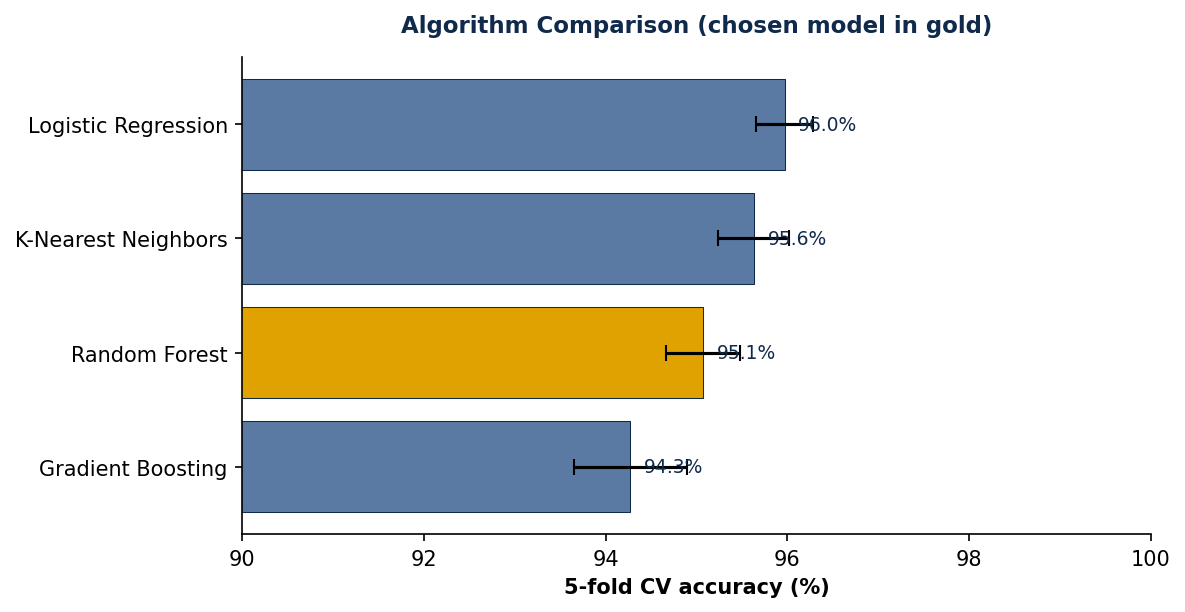
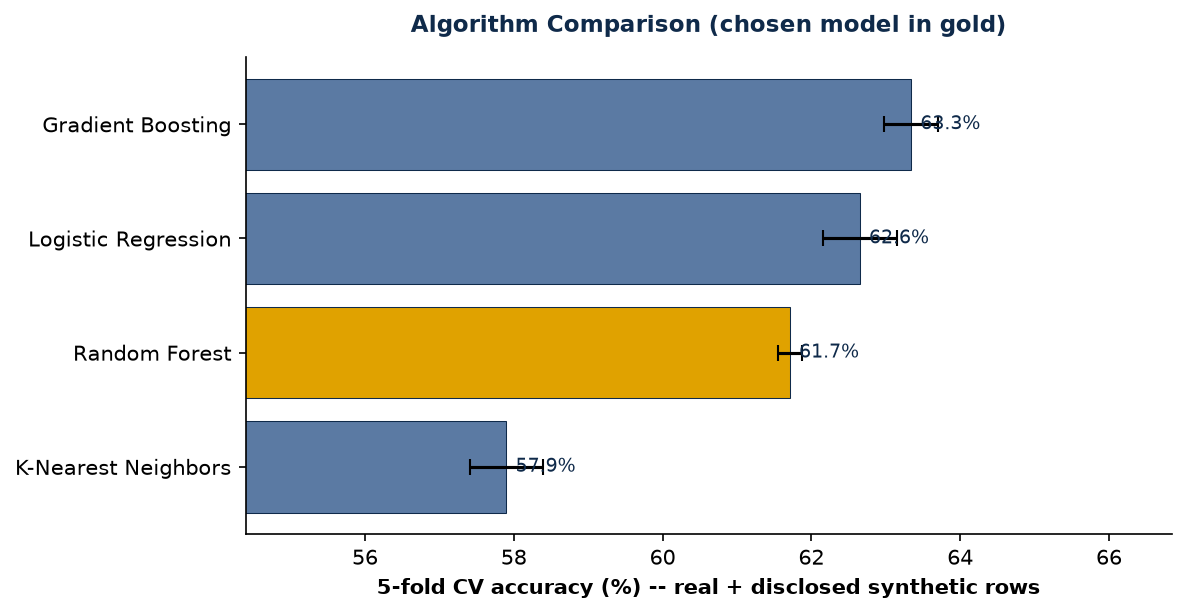
fix: persist real-only metrics so the honest number survives into the report
train.py printed a real-only (excludes disclosed synthetic O*NET rows)
accuracy/macro-F1 to the terminal, but never saved it -- model_meta.json
only stored the blended numbers, and gen_figures.py (the actual FYP figure
generator) had zero awareness of the real vs. synthetic split. Anyone
regenerating report figures the normal way would get charts with no
synthetic-data caveat at all.

* train.py now persists a `real_only` object (test accuracy, macro F1,
  log loss, sample count) into model_meta.json.
* gen_figures.py renders a new fig_full_vs_real_only.png bar chart from
  that field, and its output path is now portable (was hardcoded to a
  different machine's /home/claude/... path) and its algorithm-comparison
  x-axis is now sized to the actual data (was hardcoded to 90-100%, which
  would have clipped every bar off-chart at real accuracy levels).

Retrained on the unchanged v3.2 dataset -- identical results, now with the
real-only numbers (56.8% acc / 0.46 macro-F1) persisted alongside the full
ones (61.2% / 0.64). 17/17 tests still pass.

Changed region(s): [[0.0, 0.0931, 0.9992, 0.9935], [0.3435, 0.0, 0.843, 0.0621]]

diff --git a/ml-service/gen_figures.py b/ml-service/gen_figures.py
@@ -10,7 +10,8 @@ from sklearn.model_selection import train_test_split
 from sklearn.metrics import confusion_matrix
 from career_data import generate_dataset, FEATURE_ORDER, CAREER_LABELS
 
-OUT = "/home/claude/Merajfyp/docs-figures"
+HERE = os.path.dirname(os.path.abspath(__file__))
+OUT = os.path.normpath(os.path.join(HERE, "..", "docs-figures"))
 os.makedirs(OUT, exist_ok=True)
 
 NAVY = "#0f2a4a"
@@ -86,15 +87,48 @@ if comp:
     fig, ax = plt.subplots(figsize=(8.0, 4.2))
     bars = ax.barh(names, accs, xerr=errs, color=colors, edgecolor=NAVY,
                    linewidth=0.5, capsize=4)
-    ax.set_xlim(90, 100)
-    ax.set_xlabel("5-fold CV accuracy (%)", fontsize=10, fontweight="bold")
+    lo = max(0, min(accs) - max(errs) - 3)
+    hi = min(100, max(accs) + max(errs) + 3)
+    ax.set_xlim(lo, hi)
+    ax.set_xlabel("5-fold CV accuracy (%) -- real + disclosed synthetic rows",
+                  fontsize=10, fontweight="bold")
     ax.set_title("Algorithm Comparison (chosen model in gold)",
                  fontsize=11, fontweight="bold", color=NAVY, pad=12)
     for b, a in zip(bars, accs):
-        ax.text(a + 0.15, b.get_y() + b.get_height()/2, f"{a:.1f}%",
+        ax.text(a + (hi - lo) * 0.01, b.get_y() + b.get_height()/2, f"{a:.1f}%",
                 va="center", fontsize=9, color=NAVY)
     ax.spines[["top", "right"]].set_visible(False)
     plt.tight_layout()
     plt.savefig(f"{OUT}/fig_algorithm_comparison.png", dpi=150, bbox_inches="tight")
     plt.close()
     print("saved algorithm comparison chart")
+
+# ---- honest full-vs-real-only comparison (only if augment_profiles.py has run) ----
+real_only = meta.get("real_only")
+if real_only:
+    labels = ["Test accuracy", "Macro F1"]
+    full_vals = [meta["test_accuracy"] * 100, meta["macro_f1"] * 100]
+    real_vals = [real_only["test_accuracy"] * 100, real_only["macro_f1"] * 100]
+    x = np.arange(len(labels))
+    width = 0.32
+    fig, ax = plt.subplots(figsize=(6.4, 4.2))
+    b1 = ax.bar(x - width / 2, full_vals, width, label="Full (incl. synthetic O*NET rows)",
+                color=GOLD, edgecolor=NAVY, linewidth=0.5)
+    b2 = ax.bar(x + width / 2, real_vals, width, label="Real-only (honest real-world number)",
+                color="#5b7aa3", edgecolor=NAVY, linewidth=0.5)
+    for bars in (b1, b2):
+        for b in bars:
+            ax.text(b.get_x() + b.get_width() / 2, b.get_height() + 0.6,
+                     f"{b.get_height():.1f}%", ha="center", fontsize=9, color=NAVY)
+    ax.set_xticks(x); ax.set_xticklabels(labels, fontsize=10)
+    ax.set_ylabel("%", fontsize=10, fontweight="bold")
+    ax.set_ylim(0, max(full_vals + real_vals) + 10)
+    ax.set_title("Full vs. Real-Only Evaluation\n(Cybersecurity/UI-UX scores in "
+                 "\"Full\" measure O*NET-profile recovery, not real-world accuracy)",
+                 fontsize=10.5, fontweight="bold", color=NAVY, pad=12)
+    ax.legend(fontsize=8, loc="lower right")
+    ax.spines[["top", "right"]].set_visible(False)
+    plt.tight_layout()
+    plt.savefig(f"{OUT}/fig_full_vs_real_only.png", dpi=150, bbox_inches="tight")
+    plt.close()
+    print("saved full-vs-real-only comparison chart")

diff --git a/ml-service/train.py b/ml-service/train.py
@@ -175,14 +175,33 @@ def main() -> None:
     print("Confusion matrix (rows=true, cols=pred):")
     print(confusion_matrix(y_test, pred, labels=CAREER_LABELS))
 
+    real_only_meta = None
     if source_test is not None:
         real_mask = source_test == "real"
         real_acc = accuracy_score(y_test[real_mask], pred[real_mask])
+        real_macro_f1 = f1_score(y_test[real_mask], pred[real_mask], average="macro")
+        real_ll = log_loss(y_test[real_mask], proba[real_mask], labels=model.classes_)
         print(f"\nREAL-ONLY test subset ({int(real_mask.sum())} rows) -- the "
               f"honest real-world number (synthetic-class scores above only "
               f"measure O*NET-profile recovery):")
         print(f"  Real-only accuracy: {real_acc:.4f}")
         print(classification_report(y_test[real_mask], pred[real_mask]))
+        # Persisted (not just printed) so report/figure generation never has to
+        # rely on someone still having train.py's terminal output open -- see
+        # augment_profiles.py's honesty guarantees.
+        real_only_meta = {
+            "note": ("Computed on real survey rows only, excluding the disclosed "
+                     "synthetic O*NET rows (source=synthetic-onet) added by "
+                     "augment_profiles.py for Cybersecurity Analyst and UI/UX "
+                     "Designer. This is the honest real-world number -- the "
+                     "top-level test_accuracy/macro_f1 above include synthetic "
+                     "rows and measure O*NET-profile recovery for those two "
+                     "classes, not validated real-world accuracy."),
+            "test_accuracy": round(float(real_acc), 4),
+            "macro_f1": round(float(real_macro_f1), 4),
+            "log_loss": round(float(real_ll), 4),
+            "test_samples": int(real_mask.sum()),
+        }
 
     # ---- 4. Feature importance (from a RandomForest on full data) -------
     rf = RandomForestClassifier(
@@ -213,6 +232,7 @@ def main() -> None:
         "algorithm_comparison": comparison,
         "feature_importance": {n: round(float(i), 4) for n, i in ranked},
         "trained_samples": int(X_train.shape[0]),
+        "real_only": real_only_meta,
     }
     with open(f"{HERE}/model_meta.json", "w") as fh:
         json.dump(meta, fh, indent=2)

diff --git a/ml-service/README.md b/ml-service/README.md
@@ -144,8 +144,12 @@ honesty, not bugs):
 `python train.py --data real_dataset_so.csv` prints the algorithm comparison,
 classification report, confusion matrix, and feature importances.
 `model_meta.json` stores all of it (including `dataset`,
-`algorithm_comparison`, and `selected_for`). The figures used in the report
-are regenerated by `python gen_figures.py`.
+`algorithm_comparison`, and `selected_for`) -- **including a `real_only`
+object** (test accuracy, macro F1, log loss, sample count computed on real
+rows alone) so the honest number is never just terminal output someone
+forgot to copy. The figures used in the report are regenerated by
+`python gen_figures.py`, which now also renders `fig_full_vs_real_only.png`
+straight from that field.
 
 ## Retrain from scratch (full steps)
 